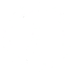
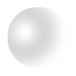
change button images

Changed region(s): [[0.1067, 0.08, 0.72, 0.8267]]

diff --git a/NinjaJump/Scenes/NJMultiplayerLayeredCharacterScene.m b/NinjaJump/Scenes/NJMultiplayerLayeredCharacterScene.m
@@ -29,6 +29,8 @@
 
 #import "NJItemEffect.h"
 
+#define BUTTON_COLORBLEND_FACTOR 0.5
+
 @interface NJMultiplayerLayeredCharacterScene ()  <SKPhysicsContactDelegate, NJButtonDelegate,NJItemControlDelegate, NJBGclickingDelegate, NJScrollDelegate>
 
 @end
@@ -170,19 +172,19 @@
     ((NJItemControl *)_itemControls[0]).position = CGPointMake(yDiff, xDiff);
     ((NJItemControl *)_itemControls[0]).zRotation = - M_PI / 4;
     ((NJItemControl *)_itemControls[0]).color = [SKColor blackColor];
-    ((NJItemControl *)_itemControls[0]).colorBlendFactor = 1.0;
+    ((NJItemControl *)_itemControls[0]).colorBlendFactor = BUTTON_COLORBLEND_FACTOR;
     ((NJItemControl *)_itemControls[1]).position = CGPointMake(1024-xDiff, yDiff);
     ((NJItemControl *)_itemControls[1]).zRotation = M_PI / 4;
     ((NJItemControl *)_itemControls[1]).color = [SKColor blueColor];
-    ((NJItemControl *)_itemControls[1]).colorBlendFactor = 1.0;
+    ((NJItemControl *)_itemControls[1]).colorBlendFactor = BUTTON_COLORBLEND_FACTOR;
     ((NJItemControl *)_itemControls[2]).position = CGPointMake(1024-yDiff, 768-xDiff);
     ((NJItemControl *)_itemControls[2]).zRotation = -3* M_PI / 4;
     ((NJItemControl *)_itemControls[2]).color = [SKColor yellowColor];
-    ((NJItemControl *)_itemControls[2]).colorBlendFactor = 1.0;
+    ((NJItemControl *)_itemControls[2]).colorBlendFactor = BUTTON_COLORBLEND_FACTOR;
     ((NJItemControl *)_itemControls[3]).position = CGPointMake(xDiff, 768-yDiff);
     ((NJItemControl *)_itemControls[3]).zRotation = 3*M_PI / 4;
     ((NJItemControl *)_itemControls[3]).color = [SKColor redColor];
-    ((NJItemControl *)_itemControls[3]).colorBlendFactor = 1.0;
+    ((NJItemControl *)_itemControls[3]).colorBlendFactor = BUTTON_COLORBLEND_FACTOR;
     
     if (!_buttons) {
         _buttons = [NSMutableArray arrayWithCapacity:kNumPlayers];
@@ -210,22 +212,22 @@
     ((NJButton*)_buttons[0]).position = CGPointMake(0+xDiff, 0+yDiff);
     ((NJButton*)_buttons[0]).zRotation = -M_PI/4;
     ((NJButton*)_buttons[0]).color = [SKColor blackColor];
-    ((NJButton*)_buttons[0]).colorBlendFactor = 1.0;
+    ((NJButton*)_buttons[0]).colorBlendFactor = BUTTON_COLORBLEND_FACTOR;
     ((NJButton*)_buttons[0]).player.color = [SKColor blackColor];
     ((NJButton*)_buttons[1]).position = CGPointMake(1024-yDiff, xDiff);
     ((NJButton*)_buttons[1]).zRotation = M_PI/4;
     ((NJButton*)_buttons[1]).color = [SKColor blueColor];
-    ((NJButton*)_buttons[1]).colorBlendFactor = 1.0;
+    ((NJButton*)_buttons[1]).colorBlendFactor = BUTTON_COLORBLEND_FACTOR;
     ((NJButton*)_buttons[1]).player.color = [SKColor blueColor];
     ((NJButton*)_buttons[2]).position = CGPointMake(1024-xDiff, 768-yDiff);
     ((NJButton*)_buttons[2]).zRotation = -M_PI/4*3;
     ((NJButton*)_buttons[2]).color = [SKColor yellowColor];
-    ((NJButton*)_buttons[2]).colorBlendFactor = 1.0;
+    ((NJButton*)_buttons[2]).colorBlendFactor = BUTTON_COLORBLEND_FACTOR;
     ((NJButton*)_buttons[2]).player.color = [SKColor yellowColor];
     ((NJButton*)_buttons[3]).position = CGPointMake(yDiff, 768-xDiff);
     ((NJButton*)_buttons[3]).zRotation = M_PI/4*3;
     ((NJButton*)_buttons[3]).color = [SKColor redColor];
-    ((NJButton*)_buttons[3]).colorBlendFactor = 1.0;
+    ((NJButton*)_buttons[3]).colorBlendFactor = BUTTON_COLORBLEND_FACTOR;
     ((NJButton*)_buttons[3]).player.color = [SKColor redColor];
 }
 
@@ -792,7 +794,7 @@
 }
 
 - (void)button:(NJButton *)button touchesEnded:(NSSet *)touches {
-    button.colorBlendFactor = 1.0;
+    button.colorBlendFactor = BUTTON_COLORBLEND_FACTOR;
     NSArray *ninjas = self.ninjas;
     if ([ninjas count] < 1) {
         return;
@@ -820,7 +822,7 @@
 
 - (void)itemControl:(NJItemControl *)control touchesEnded:(NSSet *)touches
 {
-    control.colorBlendFactor = 1.0;
+    control.colorBlendFactor = BUTTON_COLORBLEND_FACTOR;
     NSArray *ninjas = self.ninjas;
     if ([ninjas count]<1) {
         return ;
